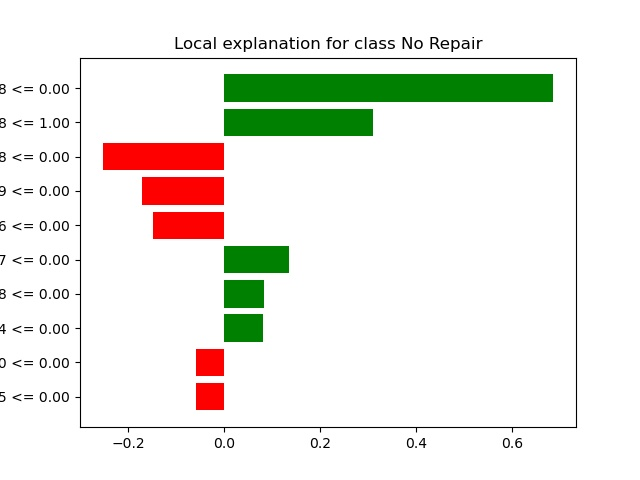
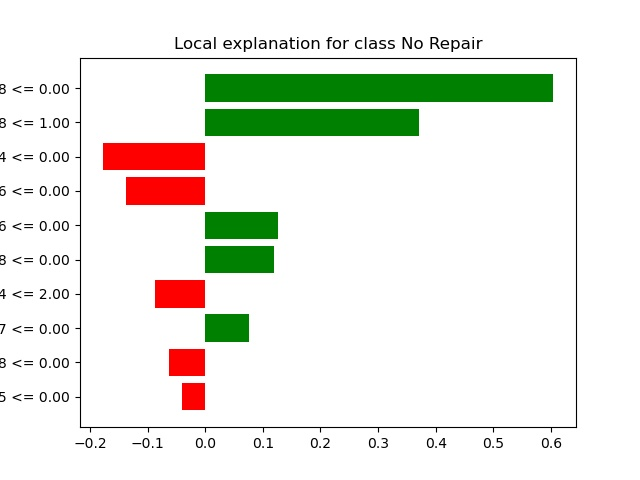
update: all algorithms except deep learning now have explainability methods lime and shap

diff --git a/src/decision_tree.py b/src/decision_tree.py
@@ -58,8 +58,8 @@ def tree_utility(train_x, trainy,
         model: Decision Tree Model
     """
     # new dataframes
+    #X_train = pd.DataFrame(train_x, columns=cols)
     X_train = pd.DataFrame(train_x)
-
     model = DecisionTreeClassifier(criterion=criteria, max_depth=max_depth)
     model.fit(X_train, trainy)
     #model.fit(train_x, trainy)
@@ -87,9 +87,9 @@ def tree_utility(train_x, trainy,
     dt_sv =  dt_exp.shap_values(train_x)
     dt_ev =  dt_exp.expected_value
 
-    print("Shape of the RF values:", dt_sv[0])
-    print("Shape of the Light boost Shap Values")
-    summary_plot(dt_sv, train_x)
+    #print("Shape of the RF values:", dt_sv[0])
+    #print("Shape of the Light boost Shap Values")
+    #summary_plot(dt_sv, train_x, feature_names=cols)
 
     prediction_prob = model.predict_proba(test_x)
     prediction = model.predict(test_x)
@@ -102,7 +102,7 @@ def tree_utility(train_x, trainy,
     #fpr, tpr, threshold = roc_curve(testy, prediction, pos_label=2)
     #_auc = metrics.auc(fpr, tpr)
 
-    return acc, _cm, _cr, _kappa, model, _fi
+    return acc, _cm, _cr, _kappa, model, _fi, instance_exp, dt_sv
 
 # Decision Tree
 def decision_tree(X, y, features, label, all_data, nFold=5):
@@ -271,7 +271,7 @@ def main():
                                           X[foldTestX], y[foldTestX]
 
         # Entropy
-        acc, cm, cr, kappa, model, fi = tree_utility(trainX, trainy,
+        acc, cm, cr, kappa, model, fi, dt_lime, dt_sv= tree_utility(trainX, trainy,
                                                  testX, testy, cols,
                                                  criteria='entropy',
                                                  max_depth=30)
@@ -280,8 +280,9 @@ def main():
         performance['confusion_matrix'].append(cm)
         performance['classification_report'].append(cr)
         performance['feature_importance'].append(fi)
-
-
+        performance['shap_values'].append(dt_sv)
+        performance['lime_val'].append(dt_lime)
+#
     print('Performance metrics:')
     print(performance['accuracy'])
     print(np.mean(performance['accuracy']))

diff --git a/src/svm.py b/src/svm.py
@@ -63,7 +63,7 @@ def support_vector_utility(train_x, trainy,
         kappa: Kappa Value
         model: Support vector machine Model
     """
-    X_train = pd.DataFrame(train_x)
+    X_train = pd.DataFrame(train_x, columns=cols)
     model = make_pipeline(StandardScaler(),
                           SVC(gamma='auto',
                               probability=True))
@@ -79,7 +79,7 @@ def support_vector_utility(train_x, trainy,
     #print(svm_exp)
     #svm_ev = np.array(svm_exp.expected_value)
 
-    #svm_sv = svm_exp.shap_values(train_x)
+    svm_sv = svm_exp.shap_values(train_x)
     #svm_ev = svm_exp.expected_value
 
     # LIME:
@@ -99,8 +99,7 @@ def support_vector_utility(train_x, trainy,
     fig = instance_exp.as_pyplot_figure()
     fig.savefig('svm_lime_report.jpg')
 
-
-    #summary_plot(svm_sv, train_x)
+    summary_plot(svm_sv, train_x, feature_names=cols)
 
     acc = accuracy_score(testy, prediction)
     _cm = confusion_matrix(testy, prediction)
@@ -111,7 +110,7 @@ def support_vector_utility(train_x, trainy,
 #    fpr, tpr, threshold = roc_curve(testy, prediction, pos_label=2)
 #    _auc = auc(fpr, tpr)
 
-    return acc, _cm, _cr, kappa, model
+    return acc, _cm, _cr, kappa, model, instance_exp, svm_sv
 
 def main():
     X, y, cols = preprocess()
@@ -124,13 +123,15 @@ def main():
                                           X[foldTestX], y[foldTestX]
 
         # structure numbers
-        gacc, gcm, gcr, gkappa, gmodel = support_vector_utility(trainX, trainy,
+        gacc, gcm, gcr, gkappa, gmodel, svm_lime, svm_sv = support_vector_utility(trainX, trainy,
                                                  testX, testy, cols)
         performance['accuracy'].append(gacc)
         performance['kappa'].append(gkappa)
         performance['confusion_matrix'].append(gcr)
         performance['classification_report'].append(gcr)
-
+        performance['shap_values'].append(svm_sv)
+        performance['lime_val'].append(svm_lime)
+#
     print('Performance metrics:')
     print(performance['accuracy'])
     print(np.mean(performance['accuracy']))

diff --git a/src/gradient_boosting.py b/src/gradient_boosting.py
@@ -58,7 +58,6 @@ def gradient_boosting_utility(train_x, trainy,
     """
     #TODO: add column names to new dataframe
     X_train = pd.DataFrame(train_x)
-
     model = GradientBoostingClassifier(n_estimators=100,
                                        learning_rate=1.0,
                                        max_depth=max_depth,
@@ -88,7 +87,7 @@ def gradient_boosting_utility(train_x, trainy,
     g_sv = g_exp.shap_values(train_x)
     g_ev = g_exp.expected_value
 
-    summary_plot(g_sv, train_x)
+    #summary_plot(g_sv, train_x, feature_names=cols)
 
     prediction = model.predict(test_x)
     acc = accuracy_score(testy, prediction)
@@ -97,7 +96,7 @@ def gradient_boosting_utility(train_x, trainy,
     #_fi = dict(zip(cols, model.feature_importances_))
     kappa = cohen_kappa_score(prediction, testy,
                               weights='quadratic')
-    return acc, _cm, _cr, kappa, model
+    return acc, _cm, _cr, kappa, model, instance_exp, g_sv
 
 def main():
     X, y, cols = preprocess()
@@ -110,13 +109,15 @@ def main():
                                           X[foldTestX], y[foldTestX]
 
         # structure numbers
-        gacc, gcm, gcr, gkappa, gmodel = gradient_boosting_utility(trainX, trainy,
+        gacc, gcm, gcr, gkappa, gmodel, gb_lime, gb_sv = gradient_boosting_utility(trainX, trainy,
                                                  testX, testy, cols, max_depth=7)
 
         performance['accuracy'].append(gacc)
         performance['kappa'].append(gkappa)
         performance['confusion_matrix'].append(gcm)
         performance['classification_report'].append(gcr)
+        performance['shap_values'].append(gb_sv)
+        performance['lime_val'].append(gb_lime)
 #
     print('Performance metrics:')
     print(performance['accuracy'])

diff --git a/src/random_forest.py b/src/random_forest.py
@@ -87,7 +87,7 @@ def random_forest_utility(train_x, trainy,
     rf_exp = TreeExplainer(model)
     rf_sv = np.array(rf_exp.shap_values(test_x))
     rf_ev = np.array(rf_exp.expected_value)
-    #summary_plot(rf_sv[0], test_x)
+    #summary_plot(rf_sv[0], test_x, feature_names=cols)
 
     # Predictions
     prediction = model.predict(test_x)
@@ -99,7 +99,7 @@ def random_forest_utility(train_x, trainy,
     #_fi = dict(zip(cols, model.feature_importances_))
     kappa = cohen_kappa_score(prediction, testy,
                               weights='quadratic')
-    return acc, _cm, _cr, kappa, model
+    return acc, _cm, _cr, kappa, model, instance_exp, rf_sv
 
 def main():
     X, y, cols = preprocess()
@@ -112,12 +112,15 @@ def main():
                                           X[foldTestX], y[foldTestX]
 
         # structure numbers
-        gacc, gcm, gcr, gkappa, gmodel = random_forest_utility(trainX, trainy,
+        gacc, gcm, gcr, gkappa, gmodel, rf_lime, rf_sv = random_forest_utility(trainX, trainy,
                                                  testX, testy, cols, max_depth=10)
         performance['accuracy'].append(gacc)
         performance['kappa'].append(gkappa)
         performance['confusion_matrix'].append(gcm)
         performance['classification_report'].append(gcr)
+        performance['shap_values'].append(rf_sv)
+        performance['lime_val'].append(rf_lime)
+#
 
     print('Performance metrics:')
     print(performance['accuracy'])

diff --git a/src/logistic_regression.py b/src/logistic_regression.py
@@ -85,8 +85,7 @@ def logistic_regression_utility(train_x, trainy,
     fig = instance_exp.as_pyplot_figure()
     fig.savefig('lg_lime_report.jpg')
 
-
-    summary_plot(int_shap)
+    summary_plot(int_shap, feature_names=cols)
 
     prediction_prob = model.predict_proba(test_x)
     prediction = model.predict(test_x)
@@ -99,7 +98,7 @@ def logistic_regression_utility(train_x, trainy,
     #_fi = dict(zip(cols, model.feature_importances_))
     _kappa = cohen_kappa_score(prediction, testy,
                               weights='quadratic')
-    return acc, _cm, _cr, _kappa, model
+    return acc, _cm, _cr, _kappa, model, instance_exp, int_shap
 
 def main():
     X, y, cols = preprocess()
@@ -112,12 +111,14 @@ def main():
                                           X[foldTestX], y[foldTestX]
 
         # structure numbers
-        gacc, gcm, gcr, gkappa, gmodel = logistic_regression_utility(trainX, trainy,
+        gacc, gcm, gcr, gkappa, gmodel, lr_sv, lr_lime = logistic_regression_utility(trainX, trainy,
                                                  testX, testy, cols)
         performance['accuracy'].append(gacc)
         performance['kappa'].append(gkappa)
         performance['confusion_matrix'].append(gcm)
         performance['classification_report'].append(gcr)
+        performance['shap_values'].append(lr_sv)
+        performance['lime_val'].append(lr_lime)
 
     print('Performance metrics:')
     print(performance['accuracy'])

diff --git a/src/lg_boost.py b/src/lg_boost.py
@@ -58,11 +58,13 @@ def light_boost_utility(train_x, trainy,
     """
 
     X_train = pd.DataFrame(train_x, columns=cols)
-
     model = lgb.LGBMClassifier(learning_rate=0.09, max_depth=-5, random_state=42)
     #cv = RepeatedKFold(n_splits=10, n_repeats=3, random_state=1)
 
-    model.fit(train_x, trainy, eval_set=[(test_x, testy), (train_x, trainy)], verbose=20, eval_metric='logloss')
+    model.fit(train_x, trainy, 
+              eval_set=[(test_x, testy), (train_x, trainy)], 
+              verbose=20, eval_metric='logloss')
+
     lg_exp = TreeExplainer(model)
     #lg_exp = shap.Explainer(model)
     #lg_sv = explainer(train_x)
@@ -90,7 +92,7 @@ def light_boost_utility(train_x, trainy,
     #print("Shape of the RF values:", lg_sv[0])
     #print("Shape of the Light boost Shap Values")
 
-    summary_plot(lg_sv, train_x)
+    #summary_plot(lg_sv, train_x, feature_names=cols)
     #shap.force_plot(explainer.expected_value, shap_values[0, :], X.iloc[0, :])
 
     #shap.plots.waterfall(lg_sv[0])
@@ -137,7 +139,7 @@ def main():
         performance['kappa'].append(kappa)
         performance['confusion_matrix'].append(cm)
         performance['classification_report'].append(cr)
-        performance['shape_values'].append(lg_sv)
+        performance['shap_values'].append(lg_sv)
         performance['lime_val'].append(lg_lime)
 #
     print('Performance metrics:')

diff --git a/src/xg_boost.py b/src/xg_boost.py
@@ -77,7 +77,7 @@ def xgb_utility(train_x, trainy,
         model: Random Forest Model
     """
     # Train model
-    X_train = pd.DataFrame(train_x)
+    X_train = pd.DataFrame(train_x, columns=cols)
 
     model = XGBRegressor(objective='reg:squarederror')
     #cv = RepeatedKFold(n_splits=10, n_repeats=3, random_state=1)
@@ -105,12 +105,13 @@ def xgb_utility(train_x, trainy,
     )
 
     fig = instance_exp.as_pyplot_figure()
-    #fig.savefig('xgb_lime_report.jpg')
+    fig.savefig('xgb_lime_report.jpg')
+
     #xgb_boost_lime.show_in_notebook(show_table=True)
     # RF
-    print("Shape of the RF values:", xgb_sv[0])
-    #summary_plot(xgb_sv, X_train)
-    print("Shape of the XGB Shap values:", xgb_sv.shape)
+    #print("Shape of the RF values:", xgb_sv[0])
+    #print("Shape of the XGB Shap values:", xgb_sv.shape)
+    #summary_plot(xgb_sv, X_train, feature_names=cols)
 
     #Predictions
     prediction = model.predict(test_x)
@@ -156,7 +157,7 @@ def main():
         performance['kappa'].append(kappa)
         performance['confusion_matrix'].append(cm)
         performance['classification_report'].append(cr)
-        performance['shape_values'].append(xgb_sv)
+        performance['shap_values'].append(xgb_sv)
         performance['lime_val'].append(xgb_lime)
 #
     # Performance metrics
